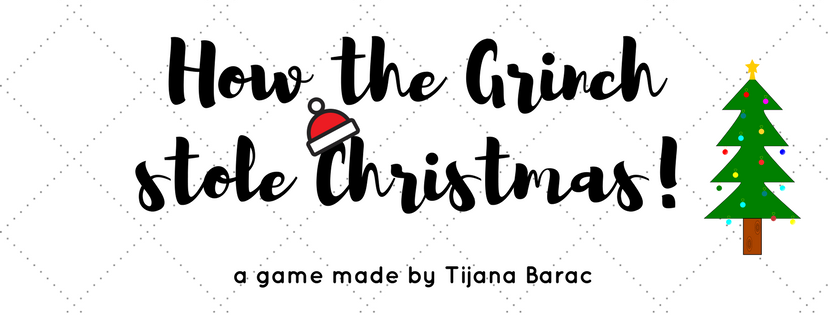
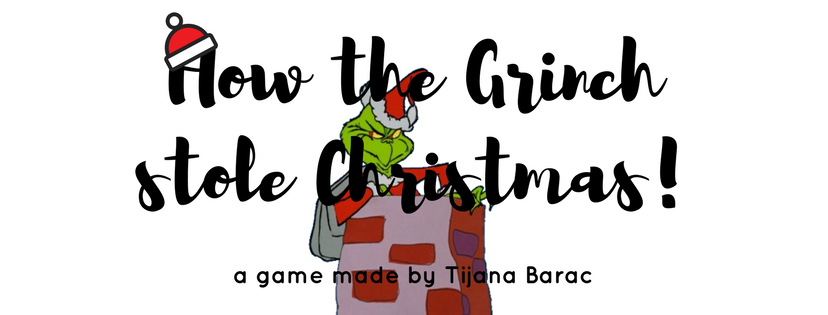
gjort allt möjligt

diff --git a/source/maingamestate.js b/source/maingamestate.js
@@ -1,13 +1,14 @@
 var mainGameState = {}
 
 mainGameState.preload = function() {
-    game.load.image("winter", "kenney_holidaypack2016/background.png");
+    game.load.image("winter", "kenney_holidaypack2016/background-grinch.jpg");
     game.load.image("grinch",
                     "kenney_holidaypack2016/grinch.png");
-    game.load.image("asteroid-large-01", "kenney_holidaypack2016/PNG/Voxel pack/Default size/Santa/santa.png");
+    game.load.image("asteroid-large-01", "kenney_holidaypack2016/santa.png");
     game.load.image("asteroid-medium-01", "kenney_holidaypack2016/PNG/Topdown pack/Default size/topdownTile_40.png");
     game.load.image("asteroid-small-01", "kenney_holidaypack2016/PNG/RTS pack/Default size/RTSobject_05.png");
     game.load.image("laser", "SpaceShooterRedux/PNG/Lasers/laserRed16.png");
+    game.load.image("snow-flake", "kenney_holidaypack2016/snowflake.png");
 
     game.load.audio("player_fire_01", "assets/audio/player_fire_01.mp3");
     game.load.audio("player_fire_02", "assets/audio/player_fire_02.mp3");
@@ -33,7 +34,8 @@ mainGameState.create = function() {
 
     var shipX = game.width * 0.5;
     var shipY = game.height * 0.9;
-    this.playerShip = game.add.sprite(shipX, shipY, 'grinch');this.playerShip.scale.setTo(0.5,0.5);
+    this.playerShip = game.add.sprite(shipX, shipY, 'grinch');
+    this.playerShip.scale.setTo(0.5,0.5);
     this.playerShip.anchor.setTo(0.5, 0.5);
     game.physics.arcade.enable(this.playerShip);
     this.cursors = game.input.keyboard.createCursorKeys();
@@ -96,6 +98,7 @@ mainGameState.update = function() {
     }
     for(var i = 0; i < this.asteroids.children.length; i++){
         if(this.asteroids.children[i].y > (game.height + 200)){
+            this.playerLife--;
             this.asteroids.children[i].destroy();
         }
     }
@@ -142,11 +145,11 @@ mainGameState.updatePlayer = function(){
 
 mainGameState.spawnAsteroid = function(){
     var arrAsteroid = [
-        "asteroid-large-01", "asteroid-medium-01", "asteroid-small-01"
+        "asteroid-large-01", "asteroid-medium-01", "asteroid-small-01", "snow-flake"
     ];
 
     var x = game.rnd.integerInRange(0, game.width);
-    var asteroid = game.add.sprite(x, 0, arrAsteroid[game.rnd.integerInRange(0,2)]);
+    var asteroid = game.add.sprite(x, 0, arrAsteroid[game.rnd.integerInRange(0,3)]);
     asteroid.anchor.setTo(0.5, 0.5);
     game.physics.arcade.enable(asteroid);
     var y = game.rnd.integerInRange(200, 20);
@@ -187,7 +190,7 @@ mainGameState.onAsteroidPlayerCollision = function(object1, object2){
     }else{
         object2.pendingDestroy = true;
     }
-    this.playerLife -=1;
+    this.playerLife --;
 }
 
 

diff --git a/source/gameoverstate.js b/source/gameoverstate.js
@@ -1,13 +1,22 @@
 var gameOverState = {}
 
 gameOverState.preload = function(){
-    
+    game.load.image("game-over", "kenney_holidaypack2016/GAME OVER.png");
+    game.load.spritesheet("button", "button/button-playagain.png");
 }
 
 gameOverState.create = function(){
+    game.physics.startSystem(Phaser.Physics.ARCADE);
+    game.add.sprite(0, 0, 'game-over');
     
+    var button;
 }
 
 gameOverState.update = function(){
+    button = game.add.button(game.world.centerX -95, 400, 'button', gameOverState.actionOnClick, this, 2, 1, 0);
     
+}
+
+gameOverState.actionOnClick = function(){
+    game.state.start("MainGame");
 }

diff --git a/style.css b/style.css
@@ -2,14 +2,18 @@ body {
     margin: 0px;
     bottom: 0px;
 
-    background-image: url("back-background.png");
-    background-size: cover; 
+    /*background-image: url("kenney_holidaypack2016/5.png");
+    background-size: cover; */
 
     font-family: "Century Gothic";
 }
 
-#header{
+img.center {
+  display: block;
+  margin-left: auto;
+  margin-right: auto;
 }
+
 }
 
 h1 {

diff --git a/index.html b/index.html
@@ -8,7 +8,7 @@
     </head>
     <body>
         <div id="header">
-        <img src ="header.png"/>
+        <img src ="header.png" class="center"/>
         </div>
         <div id="gameContainer"></div>
         <script> 
